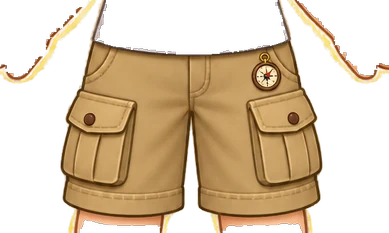
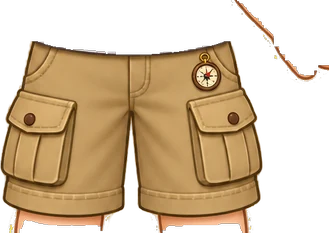
A1 characters: cleaner layers – hair no longer carries old eyebrows/eye bits over the faces, hoodies cover the grey undershirt at the shoulders, no yellow fringe around the hand from the cargo shorts

diff --git a/avatar/a1/catalog.js b/avatar/a1/catalog.js
@@ -36,7 +36,7 @@ YumiAvatar.register('a1', { w: 1024, h: 1536, dir: 'a1', head: { x: 187, y: 80, 
   "x": 178,
   "y": 22,
   "w": 657,
-  "h": 454,
+  "h": 449,
   "thumb": "th-amh1.webp"
  },
  "amh2": {
@@ -108,10 +108,10 @@ YumiAvatar.register('a1', { w: 1024, h: 1536, dir: 'a1', head: { x: 187, y: 80, 
   "g": "m",
   "rel": "",
   "img": "amb1.webp",
-  "x": 220,
-  "y": 900,
-  "w": 584,
-  "h": 350,
+  "x": 312,
+  "y": 932,
+  "w": 388,
+  "h": 286,
   "thumb": "th-amb1.webp"
  },
  "amb2": {
@@ -123,9 +123,9 @@ YumiAvatar.register('a1', { w: 1024, h: 1536, dir: 'a1', head: { x: 187, y: 80, 
   "g": "m",
   "rel": "",
   "img": "amb2.webp",
-  "x": 220,
+  "x": 310,
   "y": 900,
-  "w": 584,
+  "w": 494,
   "h": 350,
   "thumb": "th-amb2.webp"
  },
@@ -289,9 +289,9 @@ YumiAvatar.register('a1', { w: 1024, h: 1536, dir: 'a1', head: { x: 187, y: 80, 
   "rel": "",
   "img": "afb1.webp",
   "x": 320,
-  "y": 959,
+  "y": 961,
   "w": 381,
-  "h": 210,
+  "h": 208,
   "thumb": "th-afb1.webp"
  },
  "afb2": {
@@ -304,9 +304,9 @@ YumiAvatar.register('a1', { w: 1024, h: 1536, dir: 'a1', head: { x: 187, y: 80, 
   "rel": "",
   "img": "afb2.webp",
   "x": 291,
-  "y": 900,
-  "w": 441,
-  "h": 272,
+  "y": 959,
+  "w": 440,
+  "h": 203,
   "thumb": "th-afb2.webp"
  },
  "afd1": {
